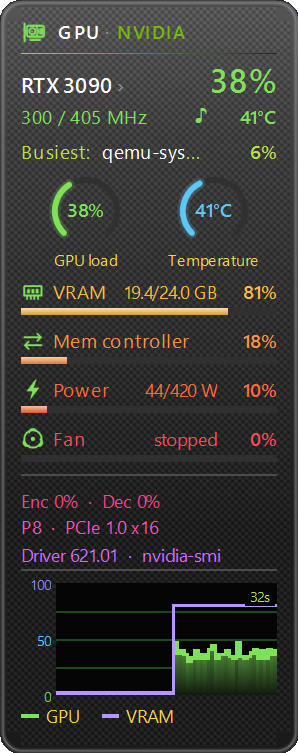
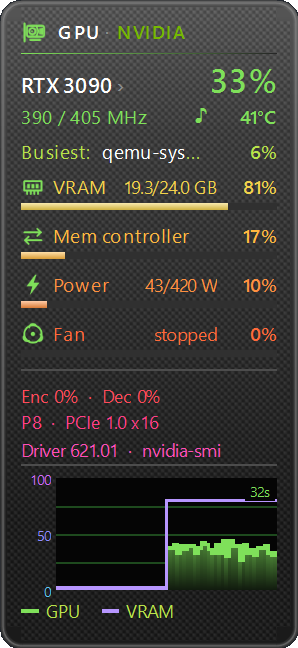
Version 1.9.1: no gauges in GPU Meter's Rainbow style
Claude-Session: https://claude.ai/code/session_01HTZaGubNwcUTe4LQXTdqDg

diff --git a/shared/common.js b/shared/common.js
@@ -1594,7 +1594,7 @@ function cimDate(s) {
 // %APPDATA%\ModernMeters\update.txt, where the others pick it up. A newer version shows a badge;
 // only a click on it downloads the release and installs it (update.ps1).
 
-var VERSION = "1.9.0";   // set by build.ps1
+var VERSION = "1.9.1";   // set by build.ps1
 var REPO = "livonianlabs/modern-meters";
 var KOFI_URL = "https://ko-fi.com/silverenio";
 var MAKER = "Livonian Labs", MAIL = "livonianlabs@gmail.com";

diff --git a/GPU_Meter_Modern.gadget/gadget.js b/GPU_Meter_Modern.gadget/gadget.js
@@ -539,7 +539,8 @@ function rebuild() {
     }
     topNext = 0;
 
-    if (THEME.glass) {
+    // Not in Rainbow, whose meters of old had only rows
+    if (THEME.glass && !THEME.rowColors) {
         // A little smaller than the frames, to keep the gadget short
         var gs = 44, gx = Math.round(IW / 4 - gs / 2);
         ui.gLoad = new Gauge(root, PAD + gx, y, T("gpuLoad"), gs);
